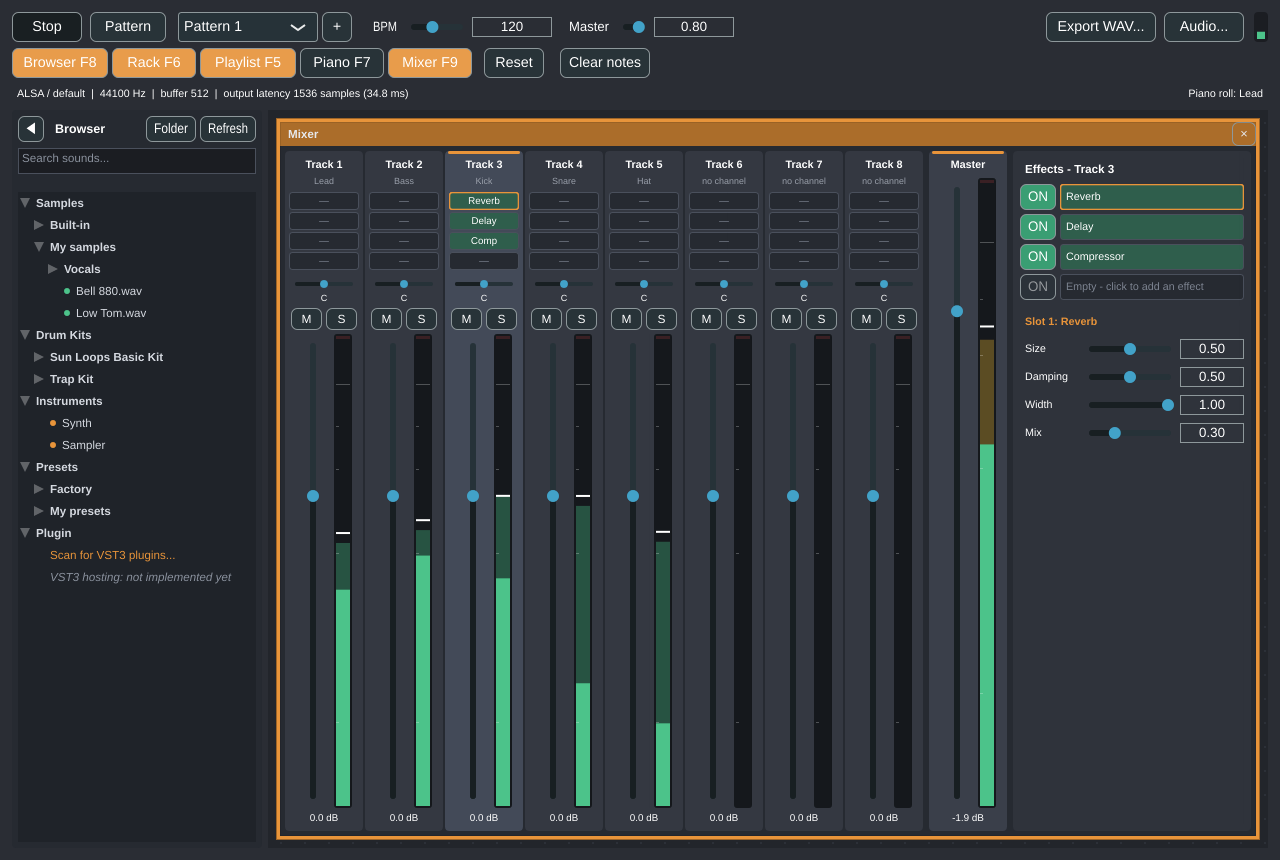
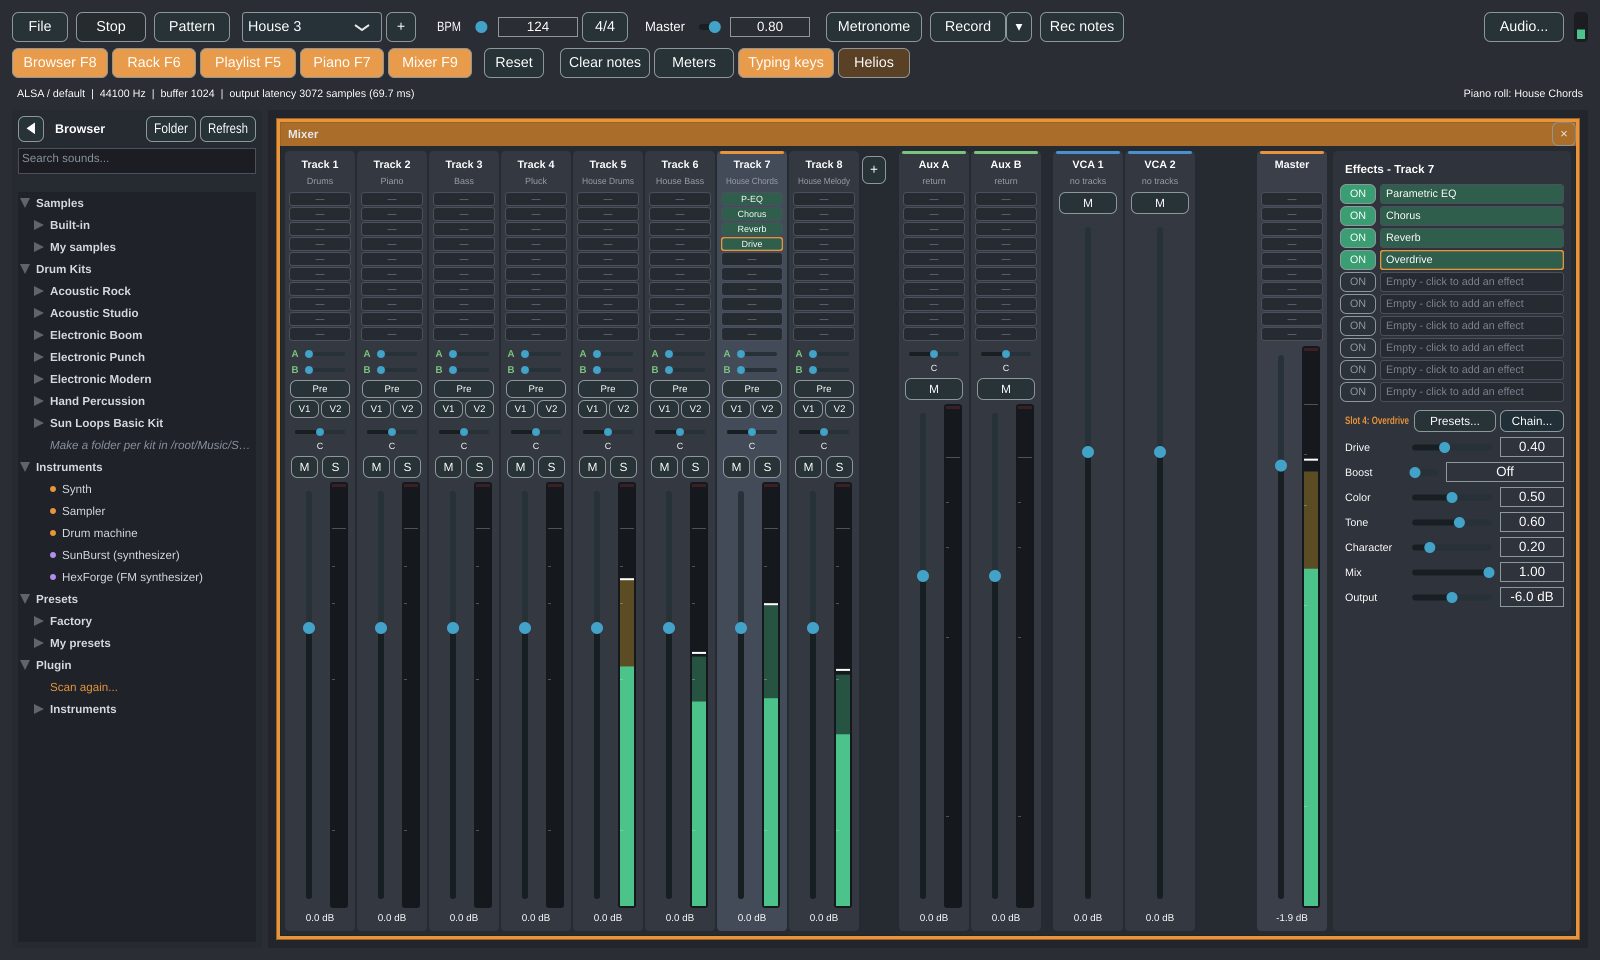
README: new screenshots, a Download section and an up-to-date status
- Five new screenshots of 0.51.0: overview (browser, channel rack, playlist with pattern
  previews), piano roll, mixer with an effect chain, SunBurst and HexForge.
- Download section: the AppImage from Releases, chmod, FUSE 2, the in-program update check.
- Status and tests paragraphs brought up to date (1681 checks, what is verified where).
- Italian README: a duplicated line removed.

Claude-Session: https://claude.ai/code/session_01EVYBhEjGi1f5WXttNshhBx

Changed region(s): [[0.0, 0.0, 1.0, 0.9977], [0.9062, 0.0, 1.0, 0.0605], [0.8125, 0.0, 0.875, 0.0605]]

diff --git a/README.it.md b/README.it.md
@@ -9,18 +9,38 @@ strumento sta in un pannello mobile che puoi spostare, ridimensionare, sovrappor
 
 ![Sun Loops Studio: browser, channel rack e playlist](docs/images/overview.png)
 
-![Il mixer espanso con una catena di effetti](docs/images/mixer.png)
+| | |
+| --- | --- |
+| ![Il Piano Roll con una progressione di accordi in La minore](docs/images/pianoroll.png) | ![Il mixer con una catena di effetti su una traccia](docs/images/mixer.png) |
+| **Piano Roll** - scale, accordi, corsia della velocity, strumenti di modifica e generatori | **Mixer** - fino a 500 tracce, 10 slot di effetti ciascuna, mandate, bus aux, gruppi VCA |
+| ![SunBurst, il sintetizzatore wavetable](docs/images/sunburst.png) | ![HexForge, il sintetizzatore FM](docs/images/hexforge.png) |
+| **SunBurst** - sintetizzatore wavetable, 101 preset (VST3 e Standalone) | **HexForge** - sintetizzatore ibrido FM + sottrattivo, 40 preset (VST3 e Standalone) |
+
+## Download
+
+Scarica l'ultima **AppImage** dalla [pagina delle release](https://github.com/Hubert9204/Sun-Loops-Studio/releases/latest)
+(`Sun-Loops-Studio-<versione>-x86_64.AppImage`, un solo file con il programma, i suoi suoni e i sintetizzatori SunBurst e HexForge):
+
+```bash
+chmod +x Sun-Loops-Studio-*-x86_64.AppImage
+./Sun-Loops-Studio-*-x86_64.AppImage
+```
+
+Su Fedora / Nobara senza FUSE 2, installalo una volta (`sudo dnf install fuse-libs`) oppure avvia l'AppImage con
+`--appimage-extract-and-run`. Qualche secondo dopo l'avvio il programma controlla se c'è una release più recente (*File > Updates and crash reports > Check for
+updates now* lo fa subito; il controllo automatico si può spegnere) e il pulsante **Download** scarica la nuova AppImage. Le release
+sono pubblicate dalla 0.51.0; per compilare dal sorgente vedi [Avvio rapido](#avvio-rapido-nobara--fedora).
 
 Sun Loops Studio si ispira al modo di lavorare dei DAW a loop come FL Studio. È un progetto indipendente: non usa
 codice, nomi, grafica o risorse di altri prodotti e non è affiliato né approvato dai loro produttori.
 
-**Stato: alpha (0.51.0).** Compila, i test automatici passano e l'interfaccia è stata provata in un display virtuale.
-La riproduzione è stata confermata su un vero PC Nobara per la versione 0.3; tutto ciò che è stato aggiunto dopo
-(pannelli, pattern, playlist, browser, pitch/swing, mixer espanso ed effetti, salvataggio dei progetti, AppImage, clip audio, trascinamento
-dei file, registrazione, MIDI, metronomo e formati di esportazione) è stato provato con test automatici e in un display virtuale con un
-dispositivo audio muto, non ancora con audio reale, microfoni o hardware MIDI. **Dalla 0.17.0 si possono usare i plugin (VST3, LV2,
-LADSPA)** come strumenti e come effetti del mixer; sono stati provati con piccoli plugin di prova e con gli esempi LADSPA, non ancora con
-plugin commerciali. Vedi [docs/roadmap.md](docs/roadmap.md) per sapere con precisione cosa è verificato, cosa no e cosa manca.
+**Stato: alpha (0.51.0).** Compila, più di 1.600 controlli automatici passano e ogni funzione è stata provata in un display
+virtuale. L'AppImage gira su Nobara; la riproduzione è stata confermata la prima volta su un vero PC Nobara con la versione 0.3. Gran
+parte di quello che è arrivato dopo (registrazione, hardware MIDI, plugin, il suono dei sintetizzatori) è stato provato con test
+automatici e in un display virtuale con un dispositivo audio muto, e ora lo si sta provando su hardware vero. **I plugin (VST3, LV2,
+LADSPA)** funzionano come strumenti e come effetti del mixer dalla 0.17.0; sono stati provati con piccoli plugin di prova, con gli esempi
+LADSPA e con SunBurst e HexForge del programma, non ancora con plugin commerciali. Vedi [docs/roadmap.md](docs/roadmap.md) per sapere
+con precisione cosa è verificato, cosa no e cosa manca.
 
 ## Funzioni
 
@@ -170,13 +190,12 @@ applicazioni: `cmake --install build --prefix ~/.local`. Per creare un'unica **A
 ./build/SunLoopsStudioTests_artefacts/Release/SunLoopsStudioTests
 ```
 
-Non servono dispositivo audio né display. Controllano, tra l'altro, intonazione del synth e tempi esatti al
-campione, loop, polifonia, tracce del mixer, pitch e swing, i quattro effetti, sampler, che `Player::render` non
-allochi mai memoria (effetti compresi), uno stress test concorrente del passaggio dati interfaccia→audio, andata e
-ritorno WAV, lo scanner dei plugin, l'albero e la scansione del browser, i preset dei canali, le regole dei pannelli, la
-playlist, le note dal vivo e il file di progetto (andata e ritorno, file danneggiati o ostili, sample mancanti,
-scrittura atomica), l'esportazione in ogni formato, l'importazione di audio e video, le clip audio, il registratore,
-la gestione delle note MIDI e il metronomo.
+Non servono dispositivo audio né display; 1681 controlli alla 0.51.0. Coprono, tra l'altro, intonazione del synth e tempi esatti al
+campione, ogni strumento ed effetto, che `Player::render` non allochi mai memoria (effetti compresi), uno stress test concorrente del
+passaggio dati interfaccia→audio, il file di progetto (andata e ritorno, file danneggiati o ostili, sample mancanti, scrittura atomica),
+l'importazione da FL Studio e MIDI, l'esportazione in ogni formato, la registrazione, l'automazione, i cambi di tempo, l'host dei plugin,
+SunBurst e HexForge (preset, voci, filtri, effetti, stato salvato) e il controllo degli aggiornamenti. GitHub Actions compila il programma
+su Fedora e li esegue a ogni push.
 
 ## Licenza
 

diff --git a/README.md b/README.md
@@ -10,19 +10,38 @@ holds your sounds; every other tool lives in a floating panel that you can move,
 
 ![Sun Loops Studio: browser, channel rack and playlist](docs/images/overview.png)
 
-![The expanded mixer with an effects chain](docs/images/mixer.png)
+| | |
+| --- | --- |
+| ![The Piano Roll with a chord progression in A minor](docs/images/pianoroll.png) | ![The mixer with an effect chain on a track](docs/images/mixer.png) |
+| **Piano Roll** - scales, chords, velocity lane, editing tools and generators | **Mixer** - up to 500 tracks, 10 effect slots each, sends, aux buses, VCA groups |
+| ![SunBurst, the wavetable synthesizer](docs/images/sunburst.png) | ![HexForge, the FM synthesizer](docs/images/hexforge.png) |
+| **SunBurst** - wavetable synthesizer, 101 presets (VST3 and Standalone) | **HexForge** - hybrid FM + subtractive synthesizer, 40 presets (VST3 and Standalone) |
+
+## Download
+
+Get the latest **AppImage** from the [Releases page](https://github.com/Hubert9204/Sun-Loops-Studio/releases/latest)
+(`Sun-Loops-Studio-<version>-x86_64.AppImage`, one file with the program, its sounds and the SunBurst and HexForge synthesizers):
+
+```bash
+chmod +x Sun-Loops-Studio-*-x86_64.AppImage
+./Sun-Loops-Studio-*-x86_64.AppImage
+```
+
+On Fedora / Nobara without FUSE 2, install it once (`sudo dnf install fuse-libs`) or start the AppImage with
+`--appimage-extract-and-run`. The program checks for a newer release a few seconds after it starts (*File > Updates and crash reports > Check for updates now*
+does it at once; the automatic check can be switched off) and its **Download** button fetches the new AppImage. Releases are
+published since 0.51.0; to build from source see [Quick start](#quick-start-nobara--fedora).
 
 Sun Loops Studio is inspired by the workflow of loop-based DAWs such as FL Studio. It is an independent project
 that uses no code, names, graphics or assets from other products, and it is not affiliated with or endorsed by
 their makers.
 
-**Status: alpha (0.51.0).** It builds, the automated tests pass and the interface has been exercised in a virtual
-display. Playback was confirmed on a real Nobara machine for version 0.3; everything added since (panels, patterns,
-playlist, browser, pitch/swing, the expanded mixer and its effects, saving projects, the AppImage, audio clips, drag and
-drop, recording, MIDI, the metronome and the export formats) was tested headless and in a virtual display with a silent
-audio device, not yet with real audio, microphones or MIDI hardware. **Plugins (VST3, LV2, LADSPA) can be used since 0.17.0** as
-instruments and as mixer effects; they were tried with small test plugins and the LADSPA examples, not yet with commercial plugins.
-See [docs/roadmap.md](docs/roadmap.md) for exactly what is and is not verified and what is missing.
+**Status: alpha (0.51.0).** It builds, more than 1,600 automated checks pass and every feature has been exercised in a virtual
+display. The AppImage runs on Nobara; playback was first confirmed on a real Nobara machine with version 0.3. Most of what came
+later (recording, MIDI hardware, plugins, the synthesizers' sound) was tested headless and in a virtual display with a silent audio
+device, and is now being tried on real hardware. **Plugins (VST3, LV2, LADSPA)** work as instruments and as mixer effects since 0.17.0;
+they were tried with small test plugins, the LADSPA examples and the program's own SunBurst and HexForge, not yet with commercial
+plugins. See [docs/roadmap.md](docs/roadmap.md) for exactly what is and is not verified and what is missing.
 
 ## Features
 
@@ -169,12 +188,11 @@ Press **Space** to play, **F5 / F6 / F7 / F9** to show panels and **F8** for the
 ./build/SunLoopsStudioTests_artefacts/Release/SunLoopsStudioTests
 ```
 
-Headless (no audio device or display needed). They check, among other things, synth pitch and sample-exact timing,
-looping, polyphony, mixer tracks, pitch and swing, the four effects, sampler, that `Player::render` never allocates
-(effects included), a concurrent stress test of the UI-to-audio hand-over, WAV round trip, the plugin scanner, the
-browser tree and file scan, channel presets, panel layout rules, the playlist, live notes and the project file
-(save/load round trip, damaged and hostile files, missing samples, atomic writing), export to every format,
-importing audio and video, audio clips, the recorder, MIDI note handling and the metronome.
+Headless (no audio device or display needed), 1681 checks at 0.51.0. They cover, among other things, synth pitch and
+sample-exact timing, every instrument and effect, that `Player::render` never allocates (effects included), a concurrent stress test of
+the UI-to-audio hand-over, the project file (round trip, damaged and hostile files, missing samples, atomic writing), FL Studio and MIDI
+import, export to every format, recording, automation, tempo changes, the plugin host, SunBurst and HexForge (presets, voices,
+filters, effects, saved state) and the update check. GitHub Actions builds the program on Fedora and runs them on every push.
 
 ## License
 
